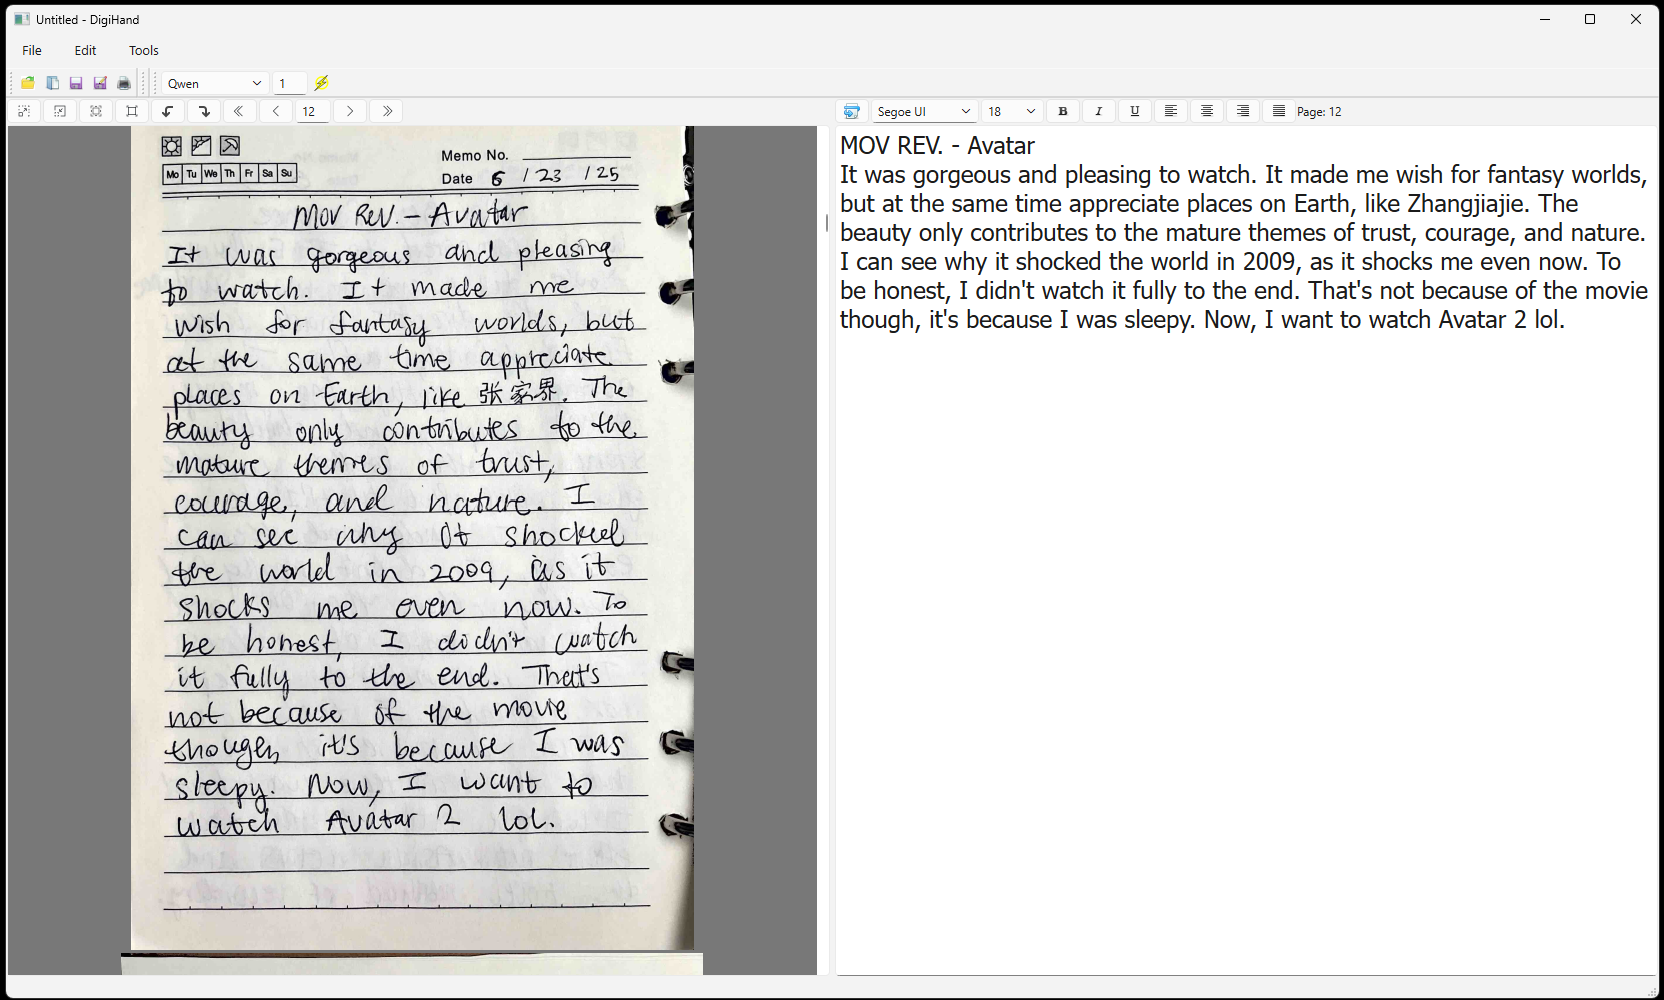
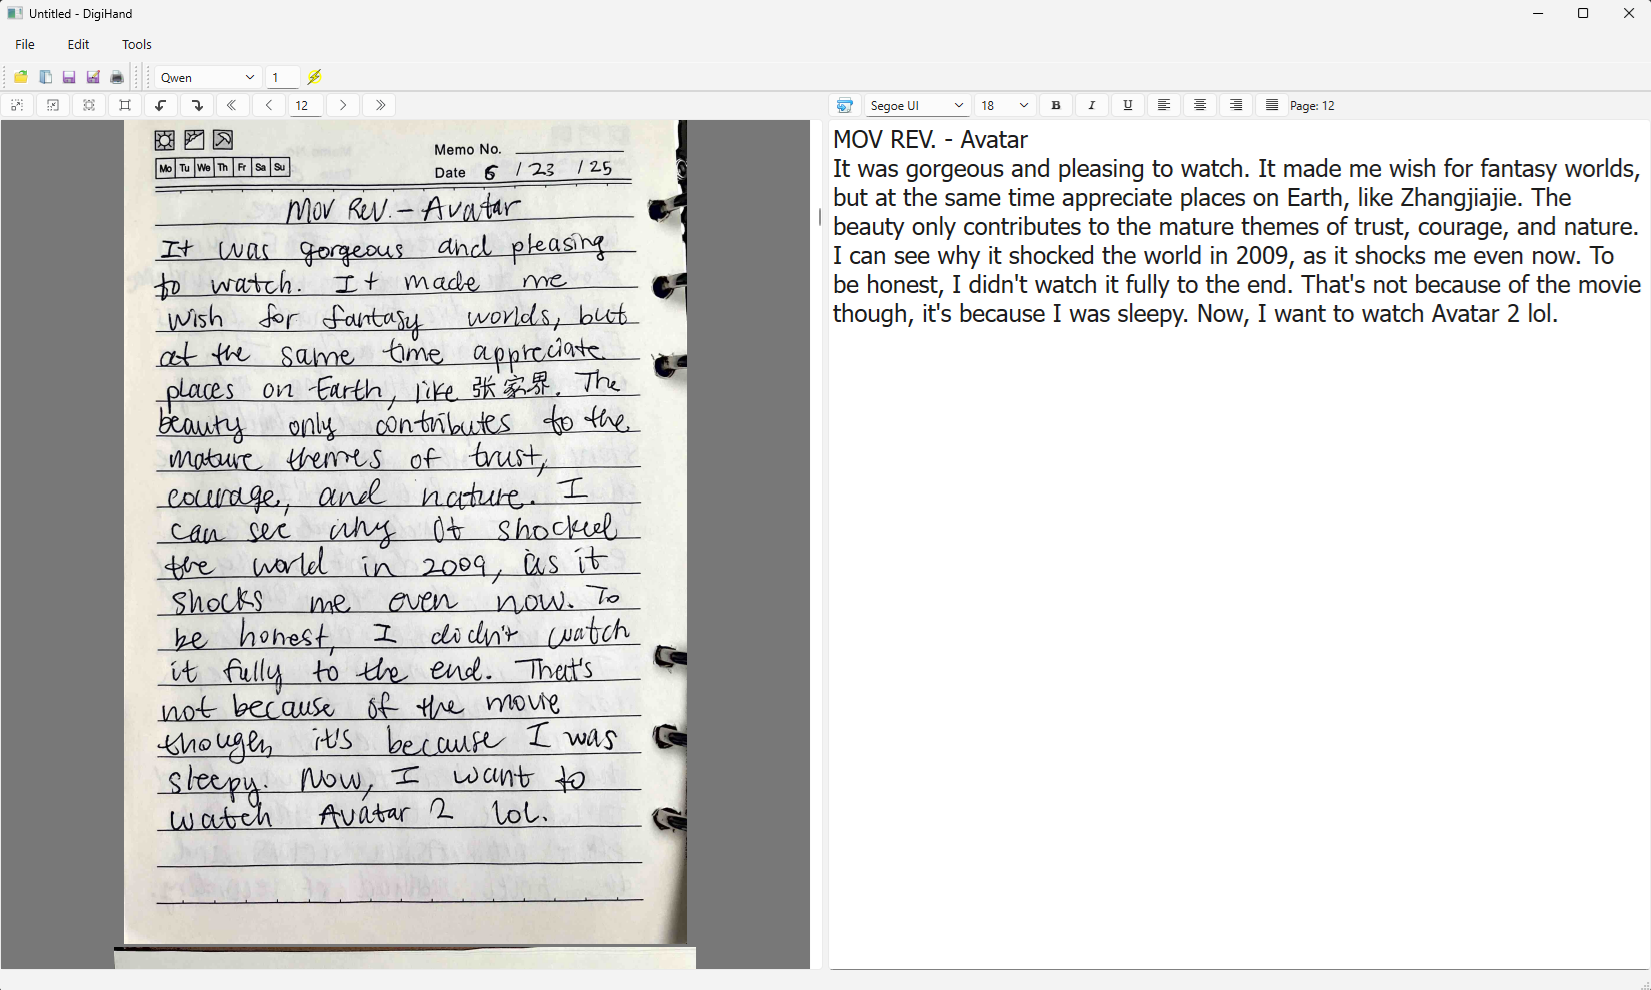
update readme

Changed region(s): [[0.0, 0.0, 1.0, 1.0]]

diff --git a/README.md b/README.md
@@ -23,10 +23,11 @@ The initial output:
 - **Text Editor** can change font, font size, and text alignment; supports bold, italics, and underline.
 
 Solver Dialogue:
+
 <img src="/images/readme_example_dialogue.png" alt="solver dialogue example">
 
 
-Edited output:
+<!-- Edited output: -->
 <!-- <img src="/images/readme_example.png" alt="converted page example"> -->
 
 ## Hardware Acceleration
